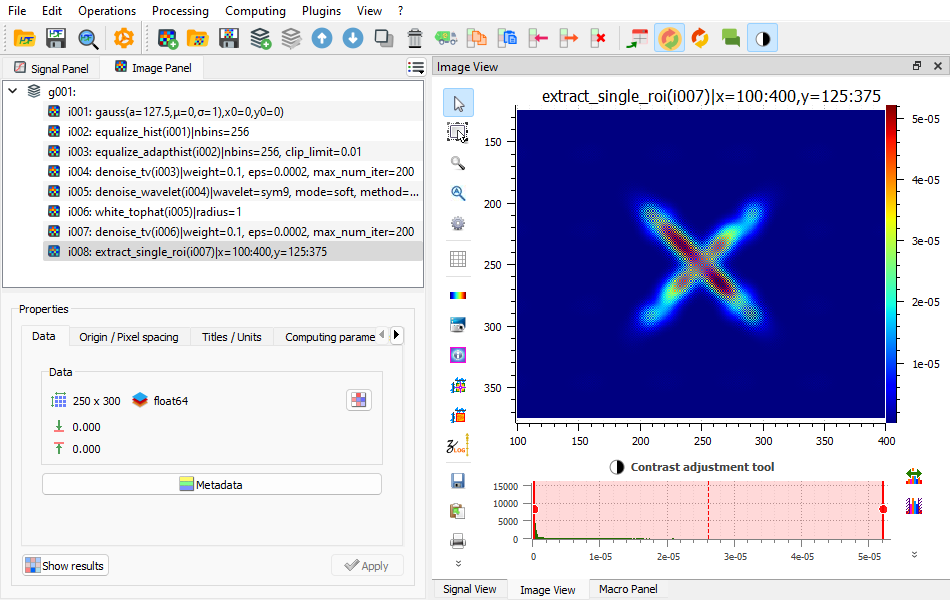
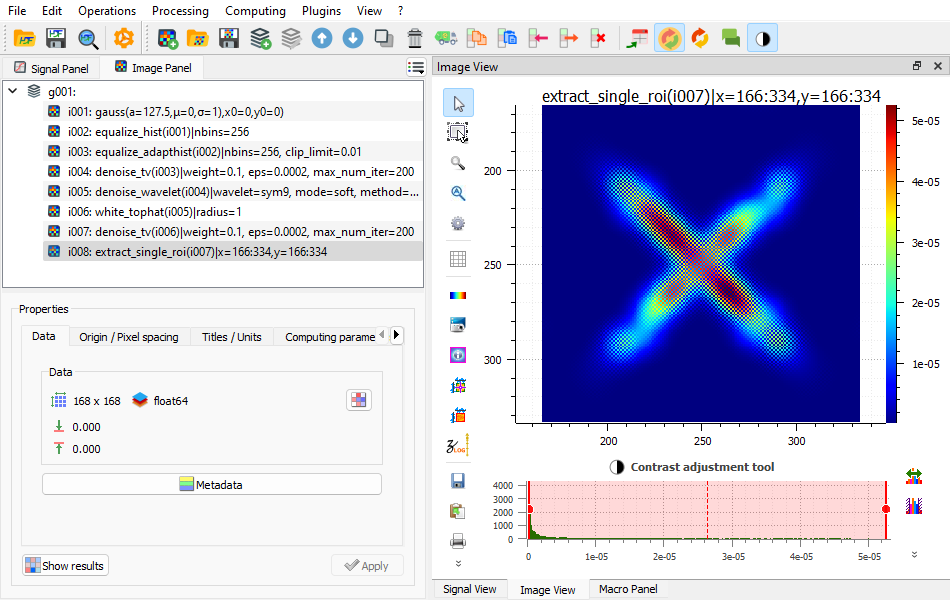
Add colormap to beautiful_app.py

diff --git a/cdl/tests/scenarios/beautiful_app.py b/cdl/tests/scenarios/beautiful_app.py
@@ -54,6 +54,7 @@ def run_beautiful_scenario(screenshots: bool = False):
             height=data_size, width=data_size, itype=dlo.ImageTypes.GAUSS
         )
         ima = dlo.create_image_from_param(newparam)
+        ima.metadata["colormap"] = "jet"
         panel.add_object(ima)
         panel.processor.compute_equalize_hist(dlp.EqualizeHistParam())
         panel.processor.compute_equalize_adapthist(dlp.EqualizeAdaptHistParam())
@@ -61,10 +62,9 @@ def run_beautiful_scenario(screenshots: bool = False):
         panel.processor.compute_denoise_wavelet(dlp.DenoiseWaveletParam())
         panel.processor.compute_white_tophat(dlp.MorphologyParam())
         panel.processor.compute_denoise_tv(dlp.DenoiseTVParam())
-        n = data_size // 5
-        m = int(n * 1.25)
+        n = data_size // 3
         panel.processor.compute_roi_extraction(
-            dlp.ROIDataParam.create([[n, m, data_size - n, data_size - m]])
+            dlp.ROIDataParam.create([[n, n, data_size - n, data_size - n]])
         )
         if screenshots:
             win.take_screenshot("i_beautiful")
